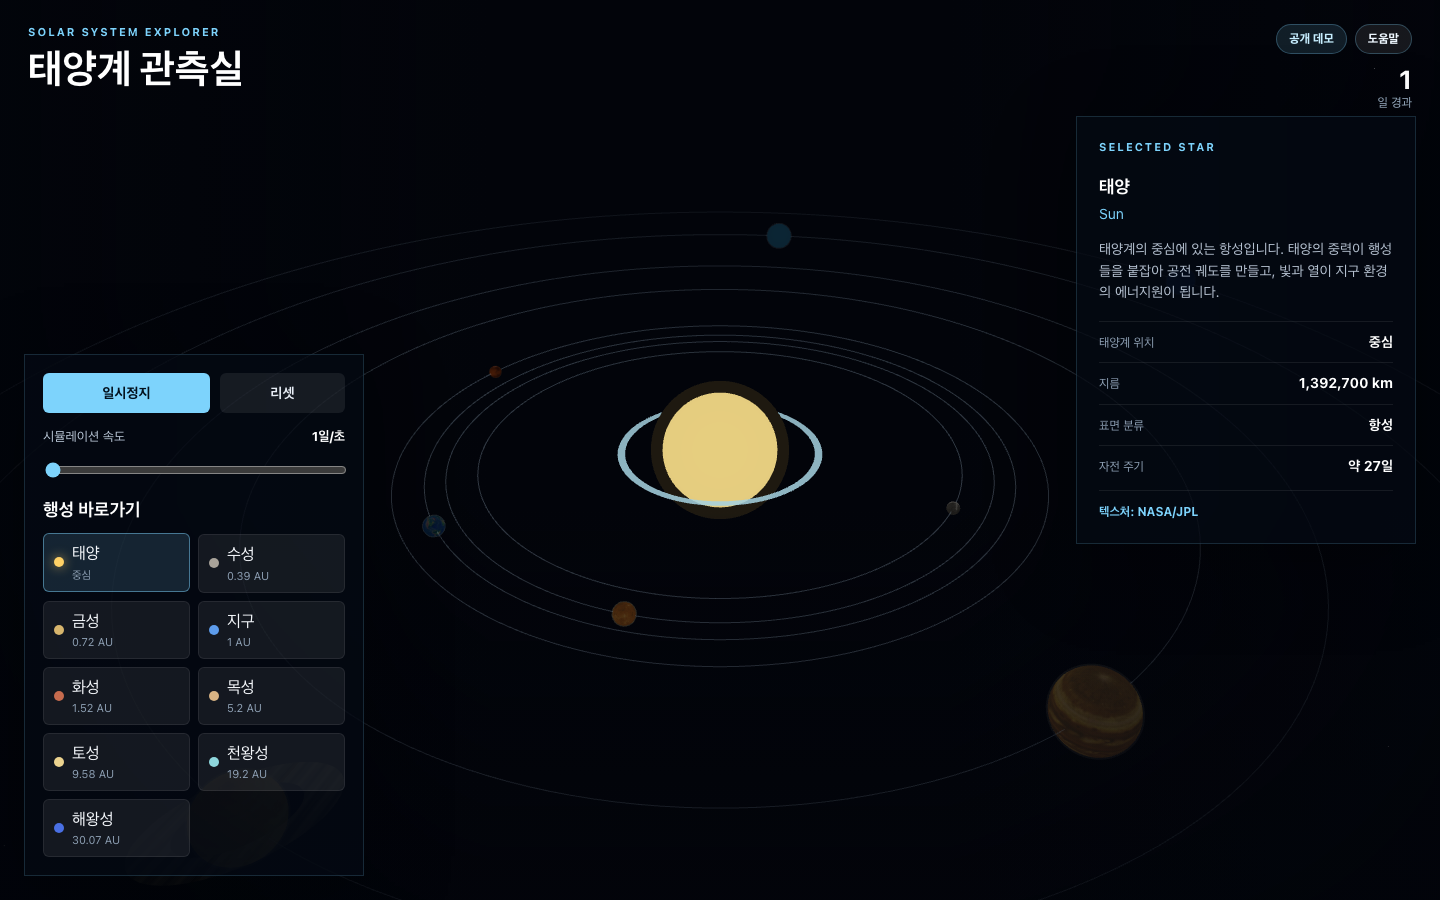
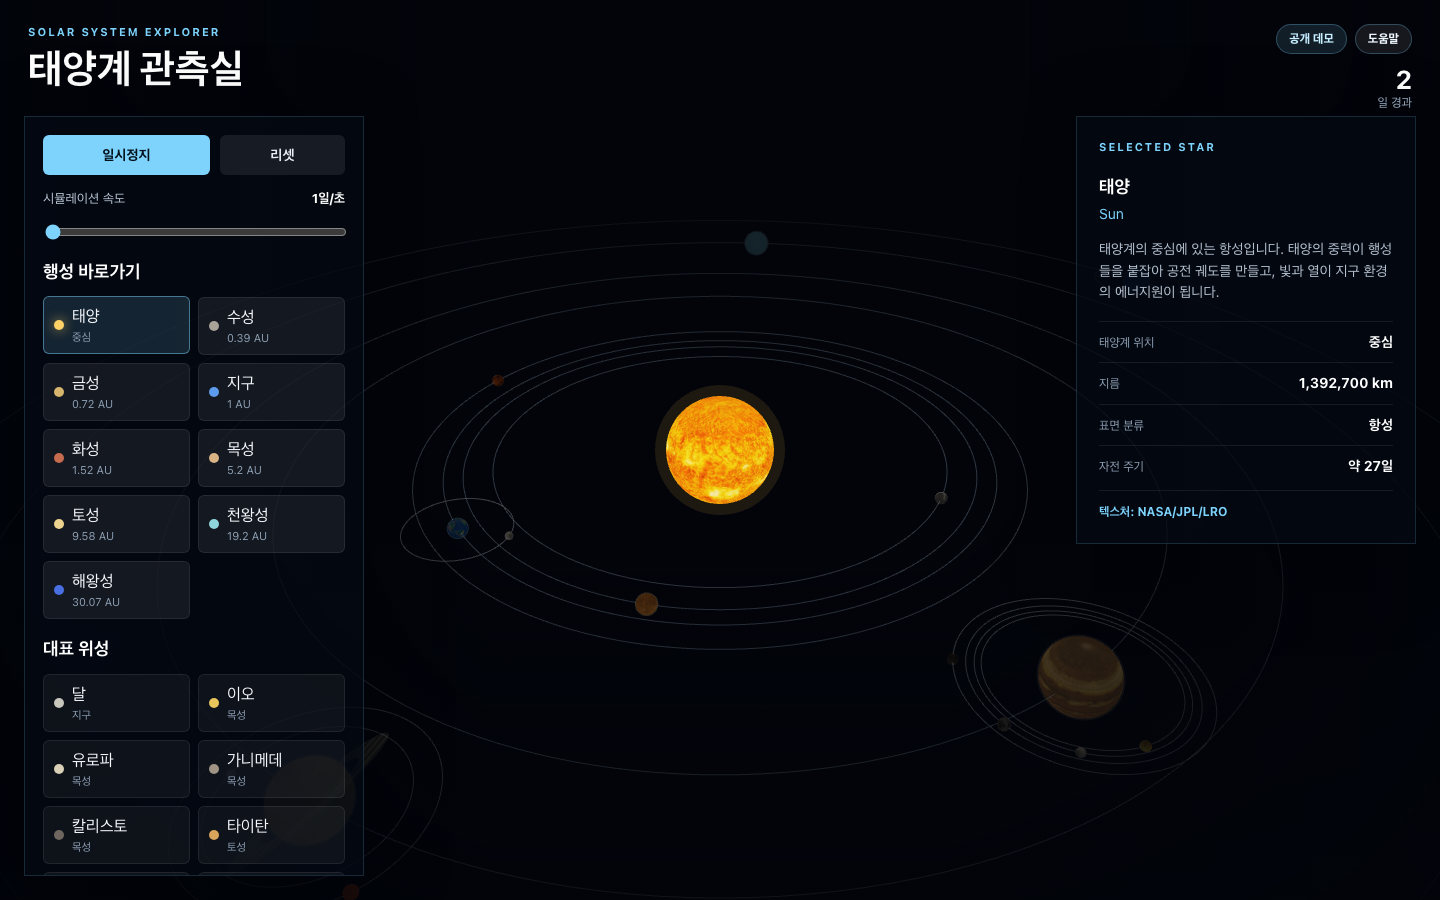
feat: add realistic sun texture

diff --git a/src/scene/SolarSystemScene.tsx b/src/scene/SolarSystemScene.tsx
@@ -10,6 +10,8 @@ import type { MoonVisual } from '../data/moonVisuals'
 import type { PlanetDatum, PlanetId, SolarBodyId } from '../data/planets'
 import { PLANET_VISUALS } from '../data/planetVisuals'
 import type { PlanetAtmosphere, PlanetVisual } from '../data/planetVisuals'
+import { SUN_VISUAL } from '../data/sunVisual'
+import type { SunVisual } from '../data/sunVisual'
 import {
   getCameraPositionAfterTargetShift,
   getMoonDisplayRadius,
@@ -53,6 +55,7 @@ const MOON_PHASES: Record<MoonId, number> = {
 const preserveDrawingBuffer =
   import.meta.env.VITE_PRESERVE_DRAWING_BUFFER === 'true'
 const SUN_DISPLAY_RADIUS = 3.2
+const SUN_ROTATION_PERIOD_DAYS = 27
 const DEFAULT_CAMERA_POSITION = [0, 30, 52] satisfies Vector3Tuple
 
 export function SolarSystemScene({
@@ -94,6 +97,7 @@ export function SolarSystemScene({
         camera={{ position: DEFAULT_CAMERA_POSITION, fov: 48, near: 0.1, far: 220 }}
         dpr={[1, 2]}
         gl={{
+          alpha: false,
           antialias: true,
           powerPreference: 'high-performance',
           preserveDrawingBuffer,
@@ -147,6 +151,7 @@ function SolarSystem({
   return (
     <group>
       <Sun
+        elapsedDays={elapsedDays}
         isSelected={selectedBodyId === 'sun'}
         onSelectBody={onSelectBody}
       />
@@ -168,12 +173,16 @@ function SolarSystem({
 }
 
 function Sun({
+  elapsedDays,
   isSelected,
   onSelectBody,
 }: {
+  elapsedDays: number
   isSelected: boolean
   onSelectBody: (bodyId: SolarBodyId) => void
 }) {
+  const surfaceTexture = usePlanetTexture(SUN_VISUAL)
+  const rotation = (elapsedDays / SUN_ROTATION_PERIOD_DAYS) * Math.PI * 2
   const selectSun = () => onSelectBody('sun')
 
   return (
@@ -183,9 +192,14 @@ function Sun({
           event.stopPropagation()
           selectSun()
         }}
+        rotation={[0, rotation, 0]}
       >
-        <sphereGeometry args={[SUN_DISPLAY_RADIUS, 72, 72]} />
-        <meshBasicMaterial color="#ffd166" />
+        <sphereGeometry args={[SUN_DISPLAY_RADIUS, 96, 96]} />
+        <meshBasicMaterial
+          color={SUN_VISUAL.material.tint}
+          map={surfaceTexture}
+          toneMapped={false}
+        />
       </mesh>
       <mesh
         onClick={(event) => {
@@ -408,7 +422,7 @@ function MoonBody({
   )
 }
 
-function usePlanetTexture(visual: PlanetVisual | MoonVisual) {
+function usePlanetTexture(visual: PlanetVisual | MoonVisual | SunVisual) {
   const texture = useTexture(
     getPublicTextureUrl(visual.texturePath),
     (loadedTexture) => {

diff --git a/src/data/sunVisual.test.ts b/src/data/sunVisual.test.ts
@@ -1,0 +1,20 @@
+import { existsSync, statSync } from 'node:fs'
+import path from 'node:path'
+import { describe, expect, it } from 'vitest'
+import { SUN_VISUAL } from './sunVisual'
+
+describe('SUN_VISUAL', () => {
+  it('points the Sun at a local NASA WebP texture with source credit', () => {
+    const texturePath = path.join(process.cwd(), 'public', SUN_VISUAL.texturePath)
+
+    expect(SUN_VISUAL.texturePath).toBe('textures/sun/sun.webp')
+    expect(existsSync(texturePath)).toBe(true)
+    expect(statSync(texturePath).size).toBeGreaterThan(1_024)
+    expect(SUN_VISUAL.textureCredit.length).toBeGreaterThan(6)
+    expect(SUN_VISUAL.textureSourceUrl).toMatch(/^https:\/\/.+/)
+    expect(SUN_VISUAL.material.roughness).toBeGreaterThanOrEqual(0)
+    expect(SUN_VISUAL.material.roughness).toBeLessThanOrEqual(1)
+    expect(SUN_VISUAL.material.emissiveIntensity).toBeGreaterThanOrEqual(0.6)
+    expect(SUN_VISUAL.material.emissiveIntensity).toBeLessThanOrEqual(2)
+  })
+})

diff --git a/tests/solar-system.spec.ts b/tests/solar-system.spec.ts
@@ -7,7 +7,7 @@ test('renders an interactive solar system canvas', async ({ page }) => {
   await expect(page.getByRole('heading', { name: '태양계 관측실' })).toBeVisible()
   await expect(page.getByText('공개 데모')).toBeVisible()
   await expect(page.getByRole('button', { name: '도움말 열기' })).toBeVisible()
-  await expect(page.getByRole('link', { name: '텍스처: NASA/JPL' })).toBeVisible()
+  await expect(page.getByRole('link', { name: '텍스처: NASA/JPL/LRO' })).toBeVisible()
   await expect(page.getByTestId('solar-canvas')).toBeVisible()
   await expect(page.getByText('1일/초')).toBeVisible()
   await expect(page.getByRole('button', { name: '태양 선택' })).toBeVisible()

diff --git a/src/App.test.tsx b/src/App.test.tsx
@@ -23,7 +23,7 @@ describe('App', () => {
     expect(screen.getByRole('heading', { name: '대표 위성' })).toBeInTheDocument()
     expect(screen.getByRole('button', { name: '달 선택' })).toBeInTheDocument()
     expect(screen.getByText('천체를 선택하세요')).toBeInTheDocument()
-    expect(screen.getByText('텍스처: NASA/JPL')).toBeInTheDocument()
+    expect(screen.getByText('텍스처: NASA/JPL/LRO')).toBeInTheDocument()
   })
 
   it('opens a concise usage guide for public demo visitors', async () => {

diff --git a/src/data/sunVisual.ts b/src/data/sunVisual.ts
@@ -1,0 +1,20 @@
+import type { PlanetMaterial } from './planetVisuals'
+
+export type SunVisual = {
+  texturePath: string
+  textureCredit: string
+  textureSourceUrl: string
+  material: PlanetMaterial
+}
+
+export const SUN_VISUAL: SunVisual = {
+  texturePath: 'textures/sun/sun.webp',
+  textureCredit: 'NASA Science',
+  textureSourceUrl: 'https://science.nasa.gov/learn/heat/resource/sun-3d-model/',
+  material: {
+    tint: '#fff4c2',
+    roughness: 0.76,
+    metalness: 0,
+    emissiveIntensity: 1.16,
+  },
+}

diff --git a/src/data/planetVisuals.test.ts b/src/data/planetVisuals.test.ts
@@ -18,7 +18,7 @@ describe('PLANET_VISUALS', () => {
 
       expect(visual.texturePath).toBe(`textures/planets/${planet.id}.webp`)
       expect(existsSync(texturePath)).toBe(true)
-      expect(statSync(texturePath).size).toBeGreaterThan(400)
+      expect(statSync(texturePath).size).toBeGreaterThan(1_024)
       expect(visual.textureCredit.length).toBeGreaterThan(6)
       expect(visual.textureSourceUrl).toMatch(/^https:\/\/.+/)
       expect(visual.material.roughness).toBeGreaterThanOrEqual(0)

diff --git a/src/data/moonVisuals.test.ts b/src/data/moonVisuals.test.ts
@@ -16,7 +16,7 @@ describe('MOON_VISUALS', () => {
 
       expect(visual.texturePath).toBe(`textures/moons/${moon.id}.webp`)
       expect(existsSync(texturePath)).toBe(true)
-      expect(statSync(texturePath).size).toBeGreaterThan(400)
+      expect(statSync(texturePath).size).toBeGreaterThan(1_024)
       expect(visual.textureCredit.length).toBeGreaterThan(6)
       expect(visual.textureSourceUrl).toMatch(/^https:\/\/.+/)
       expect(visual.material.roughness).toBeGreaterThanOrEqual(0)

diff --git a/src/data/planetVisuals.ts b/src/data/planetVisuals.ts
@@ -115,8 +115,8 @@ export const PLANET_VISUALS: Record<PlanetId, PlanetVisual> = {
   },
   uranus: {
     texturePath: 'textures/planets/uranus.webp',
-    textureCredit: 'JPL/Caltech',
-    textureSourceUrl: 'https://space.jpl.nasa.gov/tmaps/uranus.html',
+    textureCredit: 'NASA VTAD',
+    textureSourceUrl: 'https://science.nasa.gov/resource/uranus-3d-model/',
     material: {
       tint: '#e2fcff',
       roughness: 0.58,

diff --git a/src/App.tsx b/src/App.tsx
@@ -436,11 +436,11 @@ function TextureCredit() {
   return (
     <p className="texture-credit">
       <a
-        href="https://space.jpl.nasa.gov/tmaps/"
+        href="https://github.com/jinhyuk9714/3d/blob/main/public/textures/README.md"
         rel="noreferrer"
         target="_blank"
       >
-        텍스처: NASA/JPL
+        텍스처: NASA/JPL/LRO
       </a>
     </p>
   )

diff --git a/public/textures/README.md b/public/textures/README.md
@@ -1,8 +1,16 @@
-# Planet Texture Sources
+# Solar Body Texture Sources
 
 These textures are bundled for the public 3D solar system demo. They are used for educational visualization and are not intended for scientific analysis.
 
-All final app assets are local WebP files in `public/textures/planets/` and `public/textures/moons/`. Source images were kept at their original available resolution when under the 2048px target width.
+All final app assets are local WebP files in `public/textures/sun/`, `public/textures/planets/`, and `public/textures/moons/`. Source images were kept at their original available resolution when under the 2048px target width.
+
+## Sun Texture Source
+
+| Body | Local file | Source | Credit | Source size | Conversion |
+| --- | --- | --- | --- | --- | --- |
+| Sun | `sun/sun.webp` | https://science.nasa.gov/learn/heat/resource/sun-3d-model/ | NASA Science | 2048x1536 JPG inside USDZ | Extracted cube-cross texture, converted to 2048x1024 equirectangular, re-encoded to WebP q84 |
+
+## Planet Texture Sources
 
 | Planet | Local file | Source | Credit | Source size | Conversion |
 | --- | --- | --- | --- | --- | --- |
@@ -12,7 +20,7 @@ All final app assets are local WebP files in `public/textures/planets/` and `pub
 | Mars | `planets/mars.webp` | https://science.nasa.gov/3d-resources/mars/ | NASA/JPL & Caltech | 1280x720 WebP | Downloaded NASA preview WebP |
 | Jupiter | `planets/jupiter.webp` | https://science.nasa.gov/3d-resources/jupiter/ | JPL & Caltech | 720x360 WebP | Downloaded NASA preview WebP |
 | Saturn | `planets/saturn.webp` | https://science.nasa.gov/3d-resources/saturn/ | Don Davis & JPL/Caltech | 720x360 WebP | Downloaded NASA preview WebP |
-| Uranus | `planets/uranus.webp` | https://space.jpl.nasa.gov/tmaps/uranus.html | JPL/Caltech | 720x360 JPG | Re-encoded to WebP q84 |
+| Uranus | `planets/uranus.webp` | https://science.nasa.gov/resource/uranus-3d-model/ | NASA VTAD | 1024x512 JPG inside USDZ | Extracted from USDZ and re-encoded to WebP q90 |
 | Neptune | `planets/neptune.webp` | https://science.nasa.gov/3d-resources/neptune/ | Don Davis & JPL/Caltech | 720x360 WebP | Downloaded NASA preview WebP |
 
 ## Moon Texture Sources
